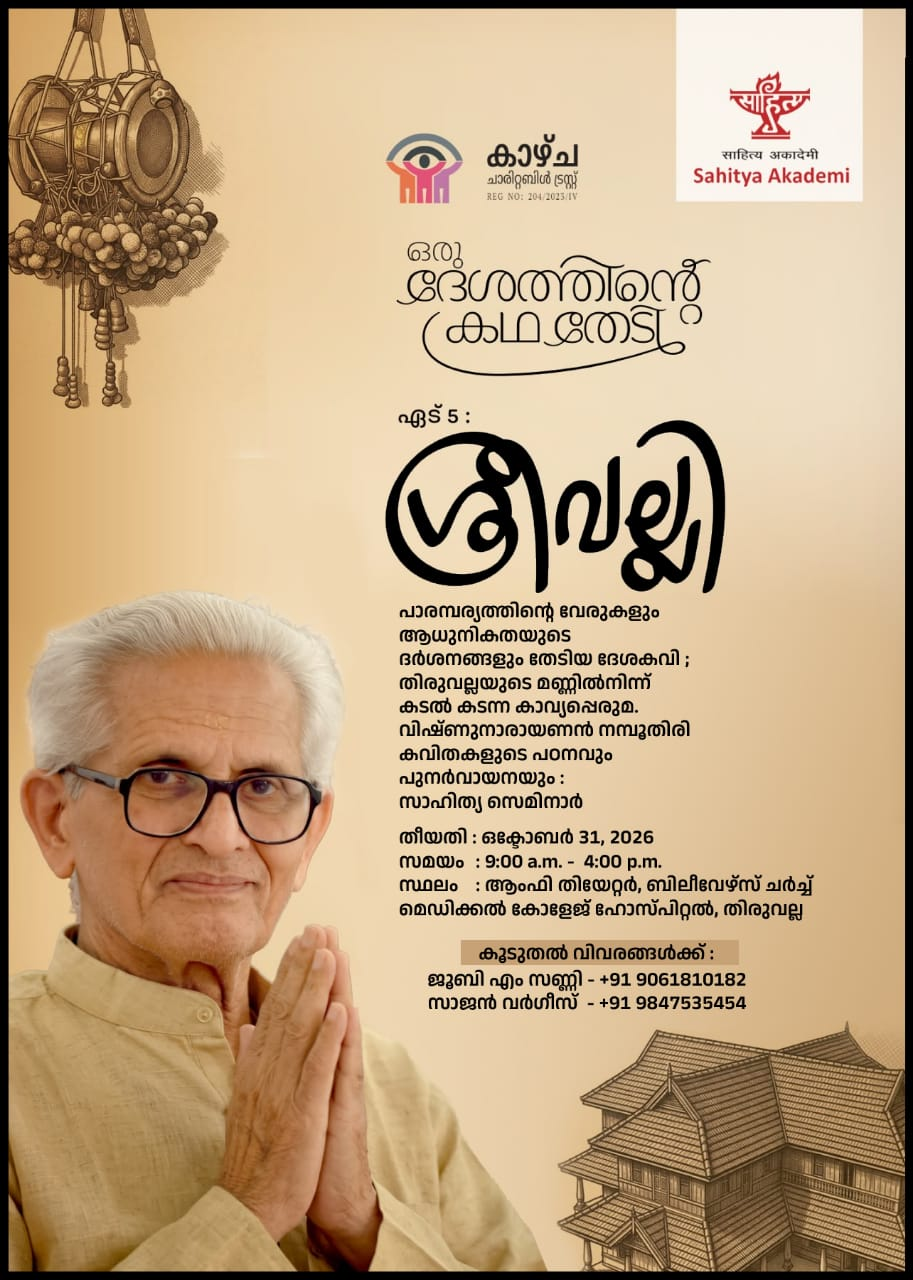
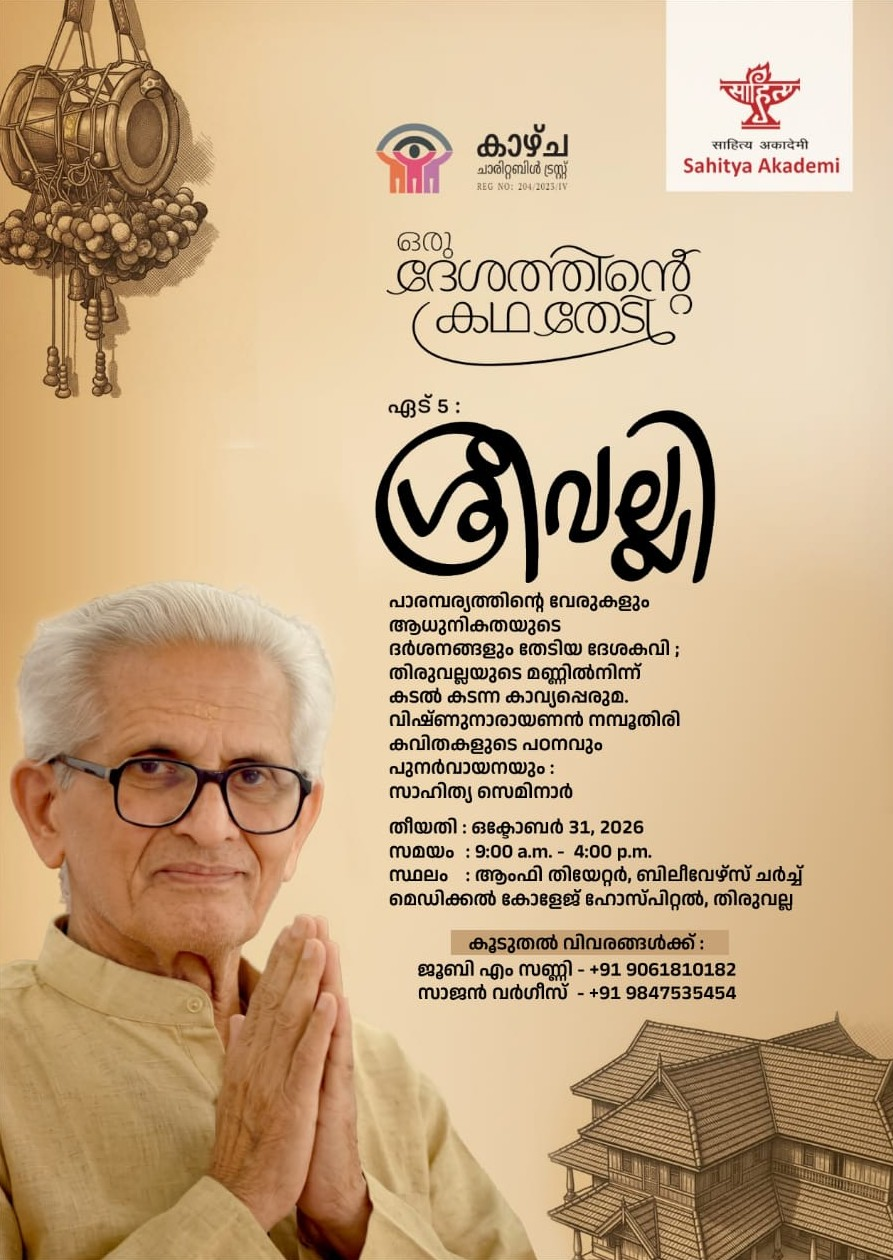
Event page: soft rounded style, poster first on mobile; bar button registers
- Match the seminar page look: rounded details card and poster, pill
  Register button, no hard borders or offset shadows. The poster's
  printed black frame is trimmed off.
- On phones the poster now leads the page.
- The announcement-bar button is now "Register now" and opens the
  registration form; the scrolling text still opens the event page.

diff --git a/src/components/landing/Navbar.tsx b/src/components/landing/Navbar.tsx
@@ -1,6 +1,6 @@
 import { AnimatePresence, motion } from "framer-motion";
 import { useEffect, useRef, useState, type MouseEvent } from "react";
-import { Link, useLocation } from "react-router";
+import { Link } from "react-router";
 
 import { EVENT } from "@/content/event";
 import { useSectionNav } from "@/hooks/use-section-nav";
@@ -22,7 +22,6 @@ export function Navbar() {
   const [open, setOpen] = useState(false);
   const pendingSection = useRef<string | null>(null);
   const scrollToSection = useSectionNav();
-  const { pathname } = useLocation();
   const { t, lang, toggleLang } = useLanguage();
   const logo = LOGOS[lang];
 
@@ -118,7 +117,8 @@ export function Navbar() {
         </div>
       </nav>
 
-      {/* Sticky announcement marquee, with a pinned button to the event page */}
+      {/* Sticky announcement marquee (opens the event page) with a pinned
+          button straight to the registration form */}
       <div className="flex items-stretch bg-forest text-cream">
         <Link
           to={EVENT.path}
@@ -142,22 +142,22 @@ export function Navbar() {
           </div>
         </Link>
         <span className="sr-only">{t.nav.marquee}</span>
-        {pathname !== EVENT.path && (
-          <div className="relative flex shrink-0 items-center bg-forest pr-3 pl-2 sm:pr-8 sm:pl-3">
-            <span
-              className="pointer-events-none absolute inset-y-0 -left-10 w-10 bg-gradient-to-r from-transparent to-forest"
-              aria-hidden
-            />
-            <Link
-              to={EVENT.path}
-              aria-label={t.nav.eventButtonLabel}
-              className="inline-flex items-center gap-1.5 rounded-full bg-gold px-3.5 py-1 font-sans text-[10px] font-bold tracking-[0.14em] text-ink uppercase transition-colors duration-300 hover:bg-gold-light sm:px-5 sm:text-[11px]"
-            >
-              {t.nav.eventButton}
-              <span aria-hidden>→</span>
-            </Link>
-          </div>
-        )}
+        <div className="relative flex shrink-0 items-center bg-forest pr-3 pl-2 sm:pr-8 sm:pl-3">
+          <span
+            className="pointer-events-none absolute inset-y-0 -left-10 w-10 bg-gradient-to-r from-transparent to-forest"
+            aria-hidden
+          />
+          <a
+            href={EVENT.registerUrl}
+            target="_blank"
+            rel="noreferrer"
+            aria-label={t.nav.registerLabel}
+            className="inline-flex items-center gap-1.5 rounded-full bg-gold px-3.5 py-1 font-sans text-[10px] font-bold tracking-[0.14em] text-ink uppercase transition-colors duration-300 hover:bg-gold-light sm:px-5 sm:text-[11px]"
+          >
+            {t.event.register}
+            <span aria-hidden>↗</span>
+          </a>
+        </div>
       </div>
 
       {/* Mobile menu */}

diff --git a/src/pages/Event.tsx b/src/pages/Event.tsx
@@ -41,9 +41,9 @@ export default function EventPage() {
               <span className="italic text-maroon">{EVENT.title[lang]}</span>
             </motion.h1>
 
-            <dl className="mt-10 grid gap-[2px] border-2 border-ink bg-ink shadow-brutal-sm sm:grid-cols-[auto_auto_minmax(0,1fr)]">
+            <dl className="mt-10 grid divide-y divide-ink/10 rounded-2xl bg-paper sm:grid-cols-[auto_auto_minmax(0,1fr)] sm:divide-x sm:divide-y-0">
               {details.map((item) => (
-                <div key={item.label} className="bg-paper px-5 py-4">
+                <div key={item.label} className="px-6 py-5">
                   <dt className={LABEL}>{item.label}</dt>
                   <dd className="mt-1.5 font-display text-lg leading-snug text-ink">
                     {item.value}
@@ -56,7 +56,7 @@ export default function EventPage() {
               href={EVENT.registerUrl}
               target="_blank"
               rel="noreferrer"
-              className="mt-8 inline-flex items-center gap-3 border-2 border-ink bg-maroon px-8 py-4 font-sans text-[13px] font-bold tracking-[0.16em] text-cream uppercase shadow-brutal transition-all duration-300 hover:translate-x-[3px] hover:translate-y-[3px] hover:bg-deep hover:shadow-none"
+              className="mt-8 inline-flex items-center gap-3 rounded-full bg-forest px-8 py-4 font-sans text-[13px] font-bold tracking-[0.18em] text-cream uppercase transition-colors duration-300 hover:bg-forest-deep"
             >
               {p.register}
               <span aria-hidden>↗</span>
@@ -89,13 +89,14 @@ export default function EventPage() {
             </Reveal>
           </div>
 
-          <Reveal className="lg:sticky lg:top-40 lg:self-start">
+          {/* Poster leads on phones; sits beside the details on desktop. */}
+          <Reveal className="order-first lg:order-none lg:sticky lg:top-40 lg:self-start">
             <img
               src={EVENT.poster}
               alt={p.posterAlt}
-              width={913}
-              height={1280}
-              className="w-full border-2 border-ink shadow-brutal-lg"
+              width={893}
+              height={1260}
+              className="w-full rounded-2xl"
             />
           </Reveal>
         </div>

diff --git a/src/i18n/translations.ts b/src/i18n/translations.ts
@@ -23,8 +23,7 @@ const en = {
     menu: "Menu",
     close: "Close",
     marquee: "Next Event — Edition 5 — 'Sreevalli' · October 31, 2026 · Kaazcha Charitable Trust collaborating with Kendra Sahitya Akademi",
-    eventButton: "Know more",
-    eventButtonLabel: "Sreevalli — event details and registration",
+    registerLabel: "Register for Sreevalli (opens the registration form)",
   },
   hero: {
     lines: [
@@ -270,8 +269,7 @@ const ml: Translations = {
     menu: "മെനു",
     close: "അടയ്ക്കുക",
     marquee: "അടുത്ത പരിപാടി — ഏട് 5- 'ശ്രീവല്ലി' · ഒക്ടോബർ 31, 2026 · കേന്ദ്ര സാഹിത്യ അക്കാദമിയുമായി സഹകരിക്കുന്ന കാഴ്ച ചാരിറ്റബിൾ ട്രസ്റ്റ്.",
-    eventButton: "കൂടുതൽ അറിയുക",
-    eventButtonLabel: "ശ്രീവല്ലി — പരിപാടിയുടെ വിശദാംശങ്ങളും രജിസ്ട്രേഷനും",
+    registerLabel: "ശ്രീവല്ലി — രജിസ്ട്രേഷൻ ഫോം",
   },
   hero: {
     lines: [
